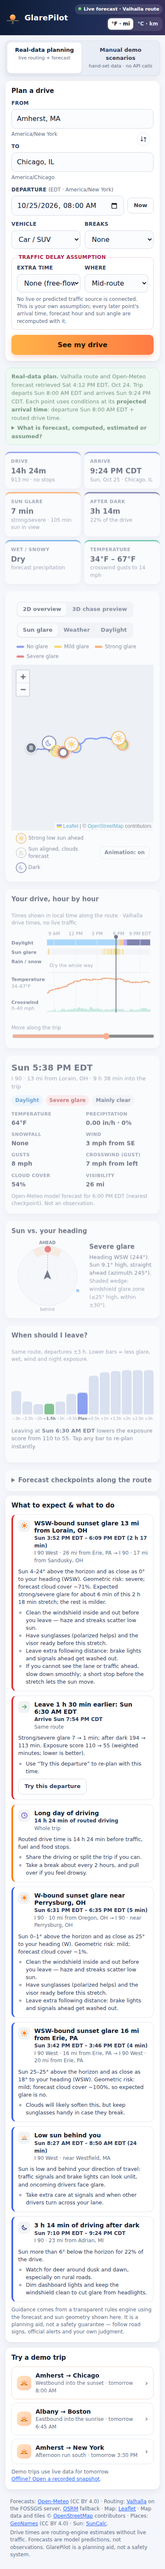
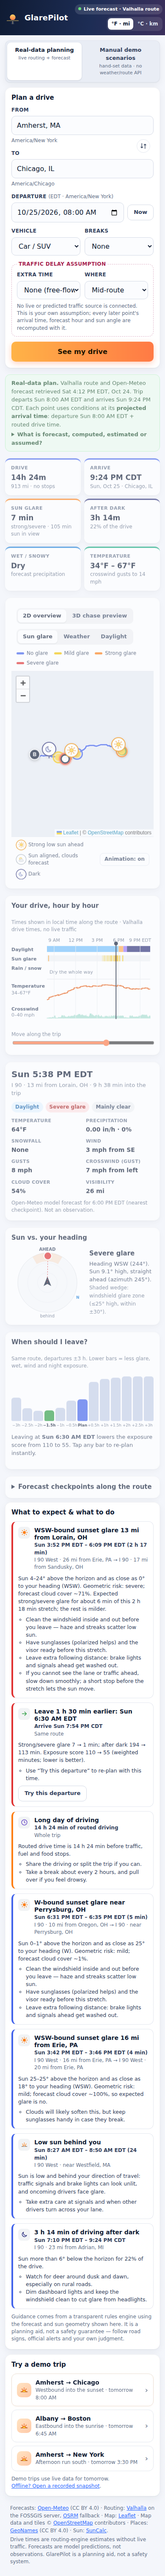
Review fixes: honest tile wording in demo mode, scenario (not forecast) wording, mobile 3D HUD layout, labels

diff --git a/src/main.js b/src/main.js
@@ -212,7 +212,7 @@ function evaluate(departureUtc, { fit = false } = {}) {
   state.ev = state.opt.base;
   state.baseline = opts.delay?.minutes ? evaluateTrip(m, departureUtc, { ...opts, delay: null }) : null;
   state.glareWindows = state.ev.windows.glare.map((w) => describeGlareWindow(m, state.ev, w)).filter((d) => d.peakSeverity >= 2 || d.minutes >= 4);
-  state.recs = buildAdvice(m, state.ev, { vehicle, optimizer: state.opt, unitsFmt: fmt });
+  state.recs = buildAdvice(m, state.ev, { vehicle, optimizer: state.opt, unitsFmt: fmt, synthetic: m.source.kind === 'synthetic' });
   state.activeRec = null;
   // Start the cursor at the most important glare moment, else at departure.
   const firstRec = state.recs.find((r) => r.focus != null);
@@ -272,7 +272,7 @@ function provHtml() {
       <li><strong>Arrival times</strong>: estimated from ${esc(m.route.engine)} free-flow routing${dly ? ' plus your delay assumption' : ''}; no live or predicted traffic is used.</li>
       <li><strong>Observed / live data</strong>: none. GlarePilot does not show current conditions and does not track your location.</li></ul></details>`;
   if (m.source.kind === 'synthetic') {
-    return { cls: 'synthetic', html: `<strong>Manual demo scenario — synthetic data.</strong> “${esc(m.source.title)}”: ${esc(m.source.story)} Weather${state.ev.delay?.minutes ? ' and the traffic delay are' : ' is'} hand-set on purpose; no network requests. Route geometry and routed times come from a recorded real ${esc(m.route.engine)} route captured ${esc(ny(m.source.routeCapturedAt))}. ${timing}${what}` };
+    return { cls: 'synthetic', html: `<strong>Manual demo scenario — synthetic data.</strong> “${esc(m.source.title)}”: ${esc(m.source.story)} Weather${state.ev.delay?.minutes ? ' and the traffic delay are' : ' is'} hand-set on purpose; no weather, routing or traffic API is called (only map tiles load). Route geometry and routed times come from a recorded real ${esc(m.route.engine)} route captured ${esc(ny(m.source.routeCapturedAt))}. ${timing}${what}` };
   }
   if (m.source.kind === 'snapshot') {
     return { cls: 'snapshot', html: `<strong>Recorded real data — not current.</strong> ${esc(m.route.engine)} route and Open-Meteo forecast retrieved ${esc(ny(m.source.capturedAt))}. ${timing}${what}` };
@@ -330,7 +330,7 @@ function renderKpis() {
         : t.glareMin[2] + t.glareMin[3] >= 1 ? `by clouds · ${Math.round(t.glareMin[2] + t.glareMin[3])} min low sun ahead` : `${Math.round(glareGeo)} min sun in view`
     ),
     kpi('night', 'After dark', ev.totals.nightMin >= 1 ? formatDuration(ev.totals.nightMin * 60, { compact: true }) : 'None', `${Math.round((ev.totals.nightMin / (ev.driveSec / 60)) * 100)}% of the drive`),
-    kpi('wet', 'Wet / snowy', t.wetMin >= 1 ? formatDuration(t.wetMin * 60, { compact: true }) : 'Dry', t.snowMin >= 1 ? `${Math.round(t.snowMin)} min snow/ice` : t.missingMin > 1 ? `${Math.round(t.missingMin)} min no forecast` : 'forecast precipitation'),
+    kpi('wet', 'Wet / snowy', t.wetMin >= 1 ? formatDuration(t.wetMin * 60, { compact: true }) : 'Dry', t.snowMin >= 1 ? `${Math.round(t.snowMin)} min snow/ice` : t.missingMin > 1 ? `${Math.round(t.missingMin)} min no forecast` : model.source.kind === 'synthetic' ? 'scenario precipitation' : 'forecast precipitation'),
     kpi('temp', 'Temperature', ev.minTemp == null ? '—' : `${fmt.temp(ev.minTemp)} – ${fmt.temp(ev.maxTemp)}`, ev.maxCrossMph ? `crosswind gusts to ${fmt.speedMph(ev.maxCrossMph)}` : ''),
   ].join('');
 }
@@ -512,7 +512,7 @@ document.querySelectorAll('[data-units]').forEach((b) =>
     fmt = makeFormatter(state.units);
     document.querySelectorAll('[data-units]').forEach((x) => x.setAttribute('aria-pressed', String(x === b)));
     if (state.model) {
-      state.recs = buildAdvice(state.model, state.ev, { vehicle: tripOpts().vehicle, optimizer: state.opt, unitsFmt: fmt });
+      state.recs = buildAdvice(state.model, state.ev, { vehicle: tripOpts().vehicle, optimizer: state.opt, unitsFmt: fmt, synthetic: state.model.source.kind === 'synthetic' });
       renderKpis();
       renderDelayCard();
       renderAdvice();
@@ -550,7 +550,7 @@ function renderDelayCard() {
   const synthetic = m.source.kind === 'synthetic';
   card.hidden = false;
   card.innerHTML = `<div class="card-head"><h3 class="card-title">What the assumed delay changes</h3><span class="fineprint">${synthetic ? 'Scenario delay (hand-set)' : 'Your assumption'} — not measured or predicted traffic</span></div>
-    <p class="fineprint" style="margin-top:0">+${formatDuration(ev.delay.extraSec)} ${esc(ev.delay.label)}. Every point after the slow stretch is reached later, so ${hourShift} of ${m.pointIdx.length} forecast checkpoints move to a different forecast hour and the sun angles are recomputed.</p>
+    <p class="fineprint" style="margin-top:0">+${formatDuration(ev.delay.extraSec)} ${esc(ev.delay.label)}. Every point after the slow stretch is reached later, so ${hourShift} of ${m.pointIdx.length} ${synthetic ? 'checkpoints read a different (hand-set) hour' : 'forecast checkpoints move to a different forecast hour'} and the sun angles are recomputed.</p>
     <dl class="delay-grid">
       <div><dt>Arrival</dt><dd class="worse">${esc(formatClock(base.arrivalUtc, m.destTz, { weekday: false }))} → ${esc(formatClock(ev.arrivalUtc, m.destTz, { weekday: false }))}</dd></div>
       ${cell('Wet roads', base.totals.wetMin, ev.totals.wetMin)}

diff --git a/src/lib/advice.js b/src/lib/advice.js
@@ -34,9 +34,11 @@ function glareActions(sev, vehicle, kind) {
 }
 
 /** Build prioritized recommendations from a trip evaluation (and optional optimizer result). */
-export function buildAdvice(model, ev, { vehicle = 'car', optimizer = null, unitsFmt } = {}) {
+export function buildAdvice(model, ev, { vehicle = 'car', optimizer = null, unitsFmt, synthetic = false } = {}) {
   const recs = [];
   const fmt = unitsFmt;
+  const SRC = synthetic ? 'Scenario (hand-set)' : 'Forecast';
+  const src = synthetic ? 'scenario (hand-set)' : 'forecast';
 
   // 1. Sun glare windows.
   for (const w of ev.windows.glare) {
@@ -48,7 +50,7 @@ export function buildAdvice(model, ev, { vehicle = 'car', optimizer = null, unit
     const expectedLabel = ['no', 'mild', 'strong', 'severe'][d.peakExpected];
     const geomLabel = ['no', 'mild', 'strong', 'severe'][d.peakSeverity];
     const muted = d.peakExpected < d.peakSeverity;
-    const cloudTxt = d.avgCloud == null ? 'cloud cover not in forecast' : `forecast cloud cover ~${Math.round(d.avgCloud)}%`;
+    const cloudTxt = d.avgCloud == null ? `cloud cover not in ${src}` : `${src} cloud cover ~${Math.round(d.avgCloud)}%`;
     recs.push({
       id: `glare-${w[0]}`,
       kind: 'glare',
@@ -103,7 +105,7 @@ export function buildAdvice(model, ev, { vehicle = 'car', optimizer = null, unit
       title: r.hz.ice ? 'Freezing precipitation / ice risk' : 'Snow on the route',
       when: `${s.when} (${formatDuration(s.minutes * 60)})`,
       where: `${s.where} → ${s.whereEnd}`,
-      why: `Forecast: ${describeCode(r.wx?.weatherCode)}, up to ${fmt.snow(maxSnow)}/h snowfall, temperature down to ${fmt.temp(minT)}.`,
+      why: `${SRC}: ${describeCode(r.wx?.weatherCode)}, up to ${fmt.snow(maxSnow)}/h snowfall, temperature down to ${fmt.temp(minT)}.`,
       actions: ['Slow down and double your following distance.', 'Bridges and overpasses freeze first.', 'Check state DOT road conditions (511) before this stretch; consider delaying.'],
       focus: w[0],
       range: w,
@@ -134,7 +136,7 @@ export function buildAdvice(model, ev, { vehicle = 'car', optimizer = null, unit
       title: heavy ? 'Heavy rain on the route' : 'Rain on the route',
       when: `${s.when} (${formatDuration(s.minutes * 60)})`,
       where: `${s.where} → ${s.whereEnd}`,
-      why: `Forecast up to ${fmt.precip(maxP)}/h${maxProb ? `, ${Math.round(maxProb)}% chance` : ''}.`,
+      why: `${SRC} up to ${fmt.precip(maxP)}/h${maxProb ? `, ${Math.round(maxProb)}% chance` : ''}.`,
       actions: heavy
         ? ['Slow down to reduce hydroplaning risk; avoid cruise control on wet roads.', 'Turn on headlights.']
         : ['Headlights on; leave extra stopping distance.'],
@@ -156,7 +158,7 @@ export function buildAdvice(model, ev, { vehicle = 'car', optimizer = null, unit
       title: 'Low visibility (fog or heavy precipitation)',
       when: `${s.when} (${formatDuration(s.minutes * 60)})`,
       where: s.where,
-      why: Number.isFinite(minVis) ? `Forecast visibility down to ${fmt.dist(minVis)}.` : 'Fog in the forecast weather code.',
+      why: Number.isFinite(minVis) ? `${SRC} visibility down to ${fmt.dist(minVis)}.` : 'Fog in the forecast weather code.',
       actions: ['Use low beams, not high beams, in fog.', 'Slow down so you can stop within the distance you can see.'],
       focus: w[0],
       range: w,
@@ -171,7 +173,7 @@ export function buildAdvice(model, ev, { vehicle = 'car', optimizer = null, unit
       title: 'Thunderstorms possible',
       when: formatClock(ev.rows[i].t, ev.rows[i].timezone || model.originTz),
       where: placeLabel(model, model.samples[i]).text,
-      why: `Forecast weather code: ${describeCode(ev.rows[i].wx.weatherCode)}.`,
+      why: `${SRC} weather code: ${describeCode(ev.rows[i].wx.weatherCode)}.`,
       actions: ['Check radar and NWS alerts before this stretch; do not drive through flooded roads.'],
       focus: i,
       range: [i, i],
@@ -245,7 +247,7 @@ export function buildAdvice(model, ev, { vehicle = 'car', optimizer = null, unit
       title: 'Below-freezing temperatures',
       when: formatClock(ev.rows[i].t, ev.rows[i].timezone || model.originTz),
       where: placeLabel(model, model.samples[i]).text,
-      why: `Forecast low of ${fmt.temp(ev.minTemp)} on the route.`,
+      why: `${SRC} low of ${fmt.temp(ev.minTemp)} on the route.`,
       actions: ['Bridges, overpasses and shaded curves can ice even without precipitation.'],
       focus: i,
       range: [i, i],

diff --git a/src/ui/chase3d.js b/src/ui/chase3d.js
@@ -486,7 +486,7 @@ export function createChase(root, { onAdvance, onPreview, getFmt, reducedMotion 
     const row = ev.rows[i];
     const tz = row.timezone || model.originTz;
     const smp = model.samples[i];
-    hud.where.textContent = `${formatClock(row.t, tz)} · ${formatDuration((row.t - ev.departureUtc) / 1000)} into the trip · heading ${compass(smp.heading)}`;
+    hud.where.textContent = root.clientWidth < 520 ? `${formatClock(row.t, tz, { weekday: false })} · +${formatDuration((row.t - ev.departureUtc) / 1000, { compact: true })} · ${compass(smp.heading)}` : `${formatClock(row.t, tz)} · ${formatDuration((row.t - ev.departureUtc) / 1000)} into the trip · heading ${compass(smp.heading)}`;
     const off = Math.round(displayIdx()) - Math.round(cur);
     if (off === 0) {
       hud.state.textContent = playing ? 'Playing back the planned route' : 'At playback position';
@@ -504,10 +504,10 @@ export function createChase(root, { onAdvance, onPreview, getFmt, reducedMotion 
       for (const c of rowConditions(ev.rows[j])) {
         if (seen.has(c)) continue;
         seen.add(c);
-        ahead.push(`${COND_LABEL[c]}${c === 'jam' ? ' (assumed)' : ''} in ${fmt.dist(model.samples[j].distM - smp.distM)}`);
+        ahead.push(`${COND_LABEL[c]} in ${fmt.dist(model.samples[j].distM - smp.distM)}`);
       }
     }
-    const now = conds.length ? `Here: ${conds.map((c) => COND_LABEL[c] + (c === 'jam' ? ' (assumed)' : '')).join(', ')}` : 'Here: no flagged conditions';
+    const now = conds.length ? `Here: ${conds.map((c) => COND_LABEL[c]).join(', ')}` : 'Here: no flagged conditions';
     hud.ahead.textContent = `${now}${ahead.length ? ` · Next: ${ahead.join(' · ')}` : ''}`;
     hud.level.textContent = LEVELS[level].name;
   }

diff --git a/index.html b/index.html
@@ -39,12 +39,12 @@
       <aside class="side" aria-label="Trip planner">
         <div class="mode-switch card" role="group" aria-label="Data mode">
           <button type="button" class="mode-btn" data-mode="real" aria-pressed="true">Real-data planning<small>live routing + forecast</small></button>
-          <button type="button" class="mode-btn" data-mode="demo" aria-pressed="false">Manual demo scenarios<small>hand-set data · no API calls</small></button>
+          <button type="button" class="mode-btn" data-mode="demo" aria-pressed="false">Manual demo scenarios<small>hand-set data · no weather/route API</small></button>
         </div>
 
         <section id="scenario-card" class="card scenario-card" aria-labelledby="scenario-title" hidden>
           <h2 class="card-title" id="scenario-title">Manual demo scenarios</h2>
-          <p class="note">These use <strong>deliberately hand-set weather and delay values</strong> on a recorded real route, to show the features reproducibly. They are <strong>not</strong> forecasts or traffic data, and they make no network requests.</p>
+          <p class="note">These use <strong>deliberately hand-set weather and delay values</strong> on a recorded real route, to show the features reproducibly. They are <strong>not</strong> forecasts or traffic data. No weather, routing or traffic API is called (only map tiles load).</p>
           <div id="scenarios" class="scenarios"></div>
         </section>
 

diff --git a/src/styles.css b/src/styles.css
@@ -348,9 +348,12 @@ body.motion-off .cond-badge *, body.motion-off .cond-badge { animation: none !im
 .cond-bar .cond-legend { border-top: 0; flex: 1; }
 .preview-pin { width: 18px; height: 18px; border-radius: 50%; border: 3px dashed #ff7a45; background: rgba(255,255,255,.85); }
 @media (max-width: 640px) {
-  .chase { height: 62vh; min-height: 340px; }
-  .chase-ahead { right: 10px; bottom: 96px; }
-  .chase-state { top: 72px; }
+  .chase { height: 66vh; min-height: 380px; }
+  .chase-top { flex-direction: column; align-items: flex-start; }
+  .chase-state { top: 74px; }
+  .chase-ahead { right: 10px; bottom: 100px; font-size: 11.5px; }
+  .chase-controls { right: 10px; }
+  .chase-controls .chip-btn { padding: 6px 9px; font-size: 12px; }
 }
 
 @keyframes spin { to { transform: rotate(360deg); } }

diff --git a/src/ui/timeline.js b/src/ui/timeline.js
@@ -63,7 +63,7 @@ export function createTimeline(el, { onPick }) {
     const x1 = (i) => xOf(edges[i + 1]);
     let y = TOP;
     const parts = [];
-    const rowsDef = ev.delay?.extraSec ? [...ROWS, { key: 'jam', label: 'Assumed delay', h: 10 }] : ROWS;
+    const rowsDef = ev.delay?.extraSec ? [...ROWS, { key: 'jam', label: 'Delay (set)', h: 10 }] : ROWS;
     const totalH = TOP + rowsDef.reduce((a, r) => a + r.h + GAP, 0) + 14;
 
     // Highlighted range (from a selected recommendation).
